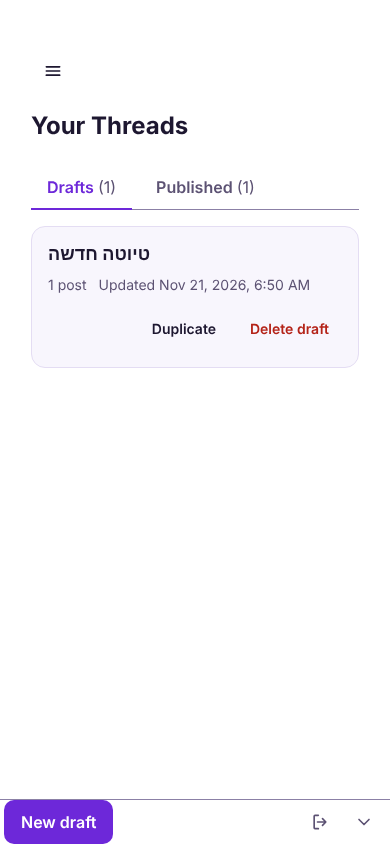
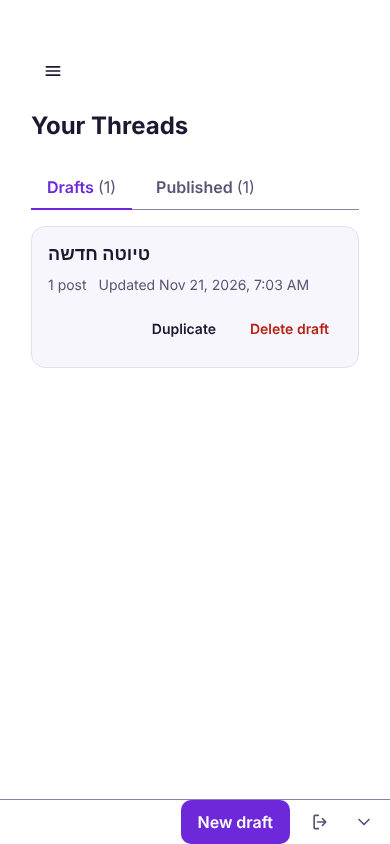
Draft list: keep the shared loading rule and the phone bar's New draft at the end
- App.css: restore .loading (used by the app boot screen, the draft editor and the X preview) that the draft list change removed by mistake.
- App.css: the phone bar's primary button (New draft) sits at the inline end, next to sign-out, as before.
- Tabs.css: the selected tab keeps its accent colour while hovered.

Implements docs/plans/ui-design-system.md Task 6

Claude-Session: https://claude.ai/code/session_01UU4t2GUdpq6Vmvku7TZiig

diff --git a/src/styles/App.css b/src/styles/App.css
@@ -286,6 +286,12 @@ a {
   font-size: 14px;
 }
 
+.loading {
+  text-align: center;
+  padding: 40px;
+  color: var(--muted);
+}
+
 /* Responsive Design */
 @media (max-width: 768px) {
   .app {
@@ -1060,7 +1066,8 @@ a {
   .app-bar .publish-btn .btn-icon { display: none; }
   .app-bar .logout-btn, .app-bar-toggle { color: var(--text-soft); }
   .app-bar .logout-btn { margin-inline-start: auto; }
-  .app-bar .publish-btn ~ .logout-btn { margin-inline-start: 8px; }
+  .app-bar .publish-btn ~ .logout-btn, .app-bar .ui-button--primary ~ .logout-btn { margin-inline-start: 8px; }
+  .app-bar .ui-button--primary { margin-inline-start: auto; }
   .app-bar .icon-btn:focus-visible, .app-bar-toggle:focus-visible { outline: 2px solid var(--focus); outline-offset: -2px; }
 
   /* Hidden: the actions slide out and only the tab stays, in the same corner. */

diff --git a/src/ui/Tabs.css b/src/ui/Tabs.css
@@ -32,7 +32,8 @@
   color: var(--color-text);
 }
 
-.ui-tabs__tab--selected {
+.ui-tabs__tab--selected,
+.ui-tabs__tab--selected:hover {
   color: var(--color-accent);
 }
 

diff --git a/docs/changelogs/20261121-065829-ui-draft-list.md b/docs/changelogs/20261121-065829-ui-draft-list.md
@@ -1,2 +1,2 @@
 - The draft list uses the new design system (plan task U6, #322): one card of rows, Drafts and Published tabs (arrow keys work), a centered empty state, and a loading skeleton.
-- A whole row opens its draft with Enter or a click. Duplicate and Delete draft stay buttons; on phones they sit on their own row. Dates use the browser's locale (medium date, short time).
+- A whole row opens its draft with Enter or a click. Duplicate and Delete draft stay buttons; on phones they sit on their own row. New draft stays at the end of the phone bar. Dates use the browser's locale (medium date, short time).
